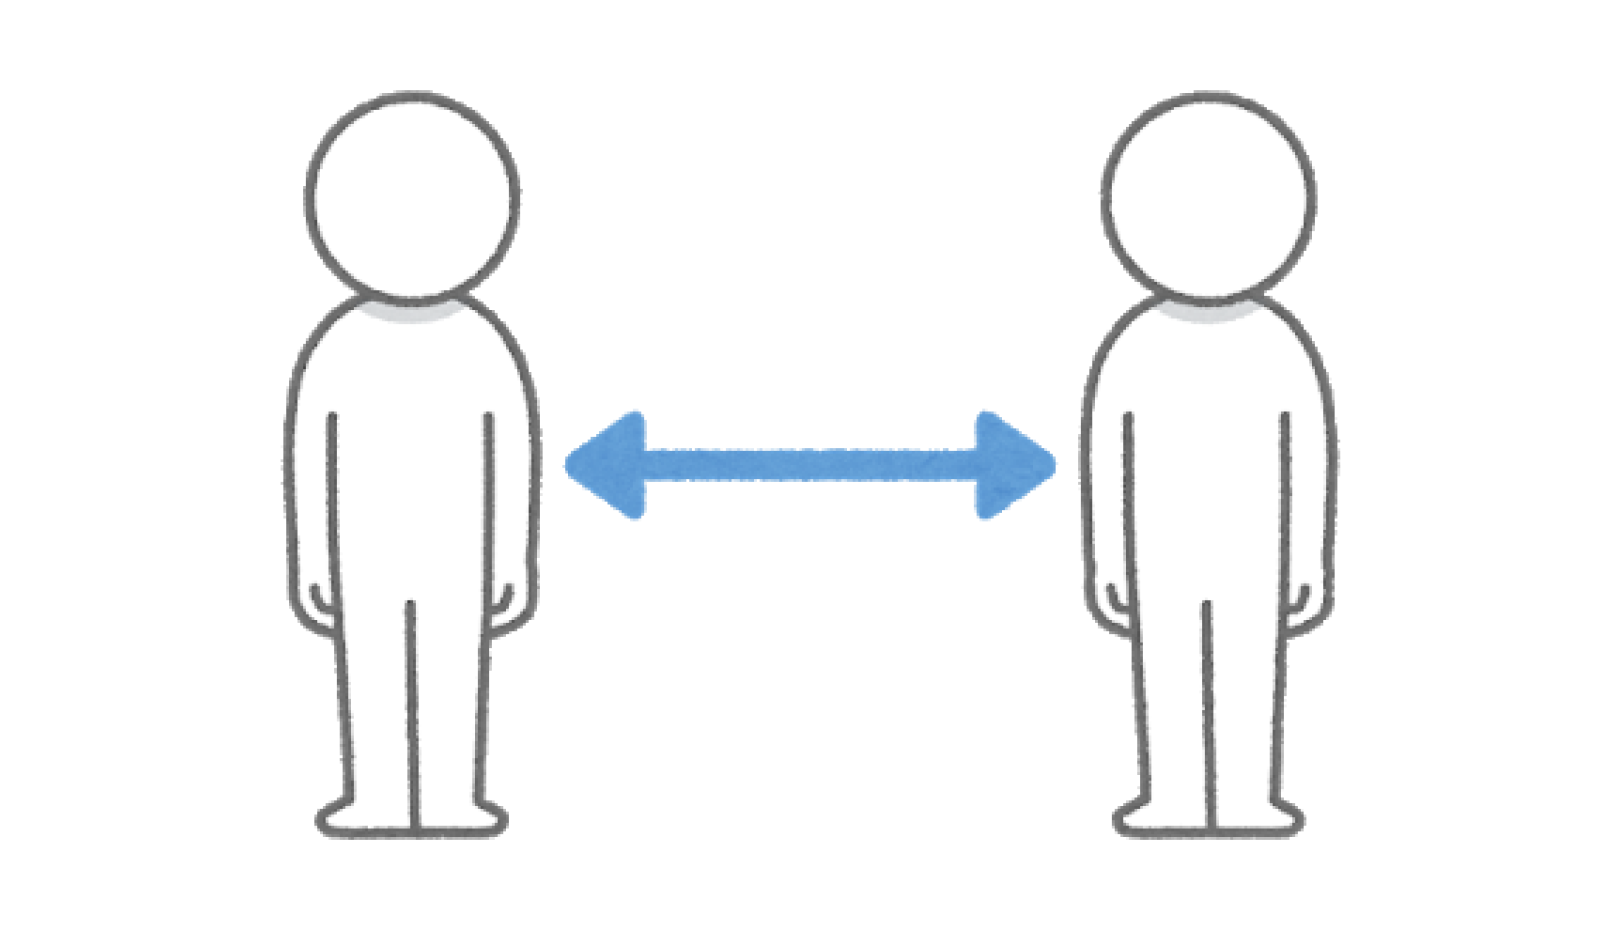
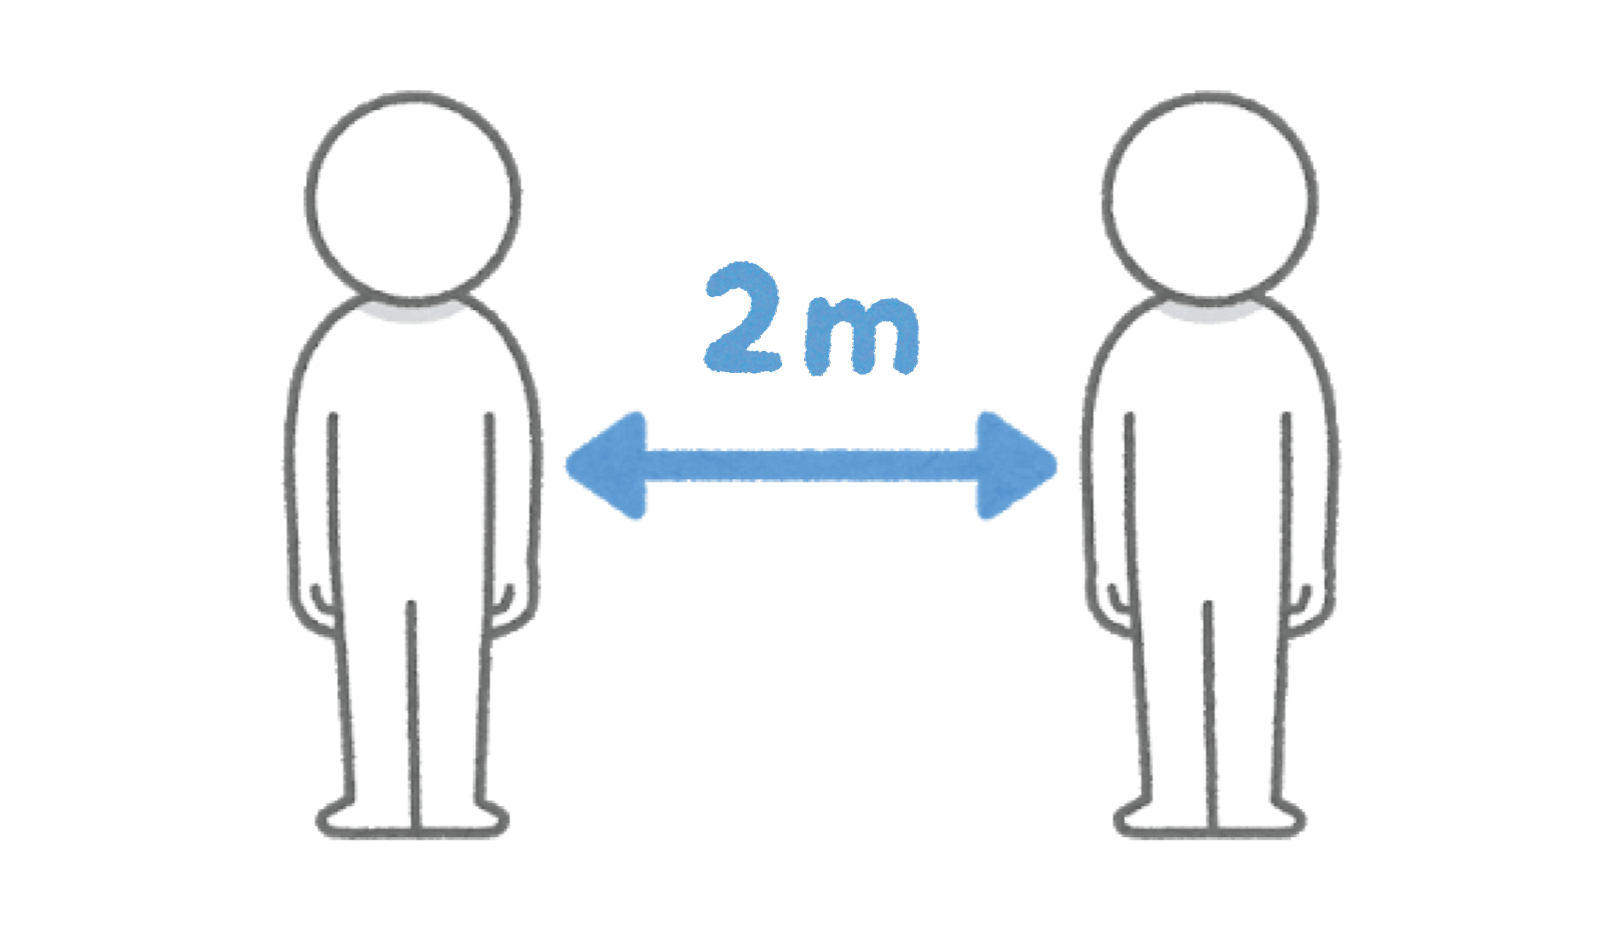
Fill in actual contents data

diff --git a/src/app/situation/tips-data.ts b/src/app/situation/tips-data.ts
@@ -8,7 +8,7 @@ export type situation = {
 export type tip = {
   imageSource: string,
   summary: string,
-  description: string
+  descriptionLines: string[]
 };
 
 export type reference = {
@@ -24,12 +24,34 @@ export const tipsData: situation[] = [
       {
         imageSource: '../../assets/tips-image/shopping-1.png',
         summary: '一度の買い物でまとめて買う',
-        description: 'Lorem ipsum dolor sit amet, consectetur adipisicing elit. A architecto asperiores aut cum fugiat id incidunt iure magnam maiores, neque nobis nostrum obcaecati, possimus quibusdam quis repudiandae sunt tenetur vel.'
+        descriptionLines: [
+          'スーパーや薬局へ買い物へ行く際は、一度に一週間分を目処にまとめて買いましょう。',
+          '買い物リストを作ってから出かけることで、店内で悩む時間を減らすことができます。',
+          '買い過ぎを防ぐことにも繋がり、適量な買い物をすることができます。'
+        ]
+      },
+      {
+        imageSource: '../../assets/tips-image/shopping-3.png',
+        summary: '他人とは2メートルの間隔を保つ',
+        descriptionLines: [
+          '店内は人が密集しがちな場所です。他人と最低でも1メートル、可能であれば2メートルの距離を空けましょう。'
+        ]
+      },
+      {
+        imageSource: '../../assets/tips-image/shopping-4.png',
+        summary: '電子マネーやおサイフケータイを活用する',
+        descriptionLines: [
+          'レジでは、現金よりもクレジットカードや電子マネー、おサイフケータイなどを使用した方が感染のリスクを下げることができます。',
+          '袋を開けるためのスポンジや濡れタオルにも極力触らないようにしましょう。'
+        ]
       },
       {
         imageSource: '../../assets/tips-image/shopping-2.png',
-        summary: '美味しいものをたくさん買う',
-        description: 'Lorem ipsum dolor sit amet, consectetur adipisicing elit. A architecto asperiores aut cum fugiat id incidunt iure magnam maiores, neque nobis nostrum obcaecati, possimus quibusdam quis repudiandae sunt tenetur vel.'
+        summary: '顔を触らない、マスクを付ける',
+        descriptionLines: [
+          '店内では、ドアや買い物カゴなど、他の人が触ったものに触れる機会が増えます。',
+          '最低限気をつけることとして、外出時は顔を触らないようにしましょう。'
+        ]
       }
     ],
     references: [
@@ -54,27 +76,40 @@ export const tipsData: situation[] = [
       {
         imageSource: '../../assets/tips-image/elderly-1.png',
         summary: 'こまめに連絡を取り合う',
-        description: 'Lorem ipsum dolor sit amet, consectetur adipisicing elit. A architecto asperiores aut cum fugiat id incidunt iure magnam maiores, neque nobis nostrum obcaecati, possimus quibusdam quis repudiandae sunt tenetur vel.'
+        descriptionLines: [
+          '同居でない場合「家族だから」といって安心して会うことはできません。',
+          'お互いの安全のために、電話で連絡をするなどし、直接会うことは控えましょう。'
+        ]
       },
       {
         imageSource: '../../assets/tips-image/elderly-2.png',
-        summary: '心配していることを伝える',
-        description: 'Lorem ipsum dolor sit amet, consectetur adipisicing elit. A architecto asperiores aut cum fugiat id incidunt iure magnam maiores, neque nobis nostrum obcaecati, possimus quibusdam quis repudiandae sunt tenetur vel.'
+        summary: '困った時は助けを呼ぶよう伝える',
+        descriptionLines: [
+          '妊婦の方や高齢の方は免疫力が低いです。まずは会わないことが一番ですが、やむを得ない場合もあるかもしれません。',
+          '無理な外出による感染のリスクを抑えるため、買い物や移動などで困ったときには助けを呼ぶよう伝えましょう。'
+        ]
       },
       {
         imageSource: '../../assets/tips-image/elderly-3.png',
-        summary: '美味しい卵焼きを食べる',
-        description: 'おばあちゃんの卵焼き美味しいんです。食べたい…。'
+        summary: '外で何かに触れたら、まず手洗いを',
+        descriptionLines: [
+          '手で触れたものが感染源となる場合もあります。',
+          'ウイルスを殺すためにも、手をこまめに洗うことを伝えましょう。'
+        ]
+      },
+      {
+        imageSource: '../../assets/tips-image/elderly-4.png',
+        summary: '他人とは2メートルの間隔を保つ',
+        descriptionLines: [
+          'くしゃみや咳により感染する場合もあります。いつ誰が咳をするか分かりません。',
+          '人混みを避け、他の人とは最低でも1メートル、可能であれば2メートル以上の距離を空けるよう伝えましょう。'
+        ]
       }
     ],
     references: [
       {
-        title: '買い物中の感染予防と栄養バランスを意識したお買い物術',
-        url: 'https://news.yahoo.co.jp/byline/naritatakanobu/20200412-00172915/'
-      },
-      {
-        title: '「他者との距離」どう取る？　２メートル前後を義務化、罰金も―各国・新型コロナ',
-        url: 'https://www.jiji.com/jc/article?k=2020041000680&g=int'
+        title: '新型コロナウイルス感染症への対応について（高齢者の皆さまへ）',
+        url: 'https://www.mhlw.go.jp/stf/seisakunitsuite/bunya/hukushi_kaigo/kaigo_koureisha/yobou/index_00013.html'
       },
       {
         title: 'Coronavirus disease (COVID-19) advice for the public',
@@ -88,32 +123,35 @@ export const tipsData: situation[] = [
     tips: [
       {
         imageSource: '../../assets/tips-image/stress-care-1.png',
-        summary: 'Coming soon...',
-        description: 'Lorem ipsum dolor sit amet, consectetur adipisicing elit. A architecto asperiores aut cum fugiat id incidunt iure magnam maiores, neque nobis nostrum obcaecati, possimus quibusdam quis repudiandae sunt tenetur vel.'
+        summary: '情報から目を離す',
+        descriptionLines: [
+          'テレビ番組では毎日のように新型コロナウイルスについて報道されています。',
+          'しかし、半日程度で状況が一変することは滅多にありません。',
+          '心の健康を守るためにも、新型コロナウイルスの情報をチェックする回数を一日二度程度に控えましょう。'
+        ]
       },
       {
         imageSource: '../../assets/tips-image/stress-care-2.png',
-        summary: 'Coming soon...',
-        description: 'Lorem ipsum dolor sit amet, consectetur adipisicing elit. A architecto asperiores aut cum fugiat id incidunt iure magnam maiores, neque nobis nostrum obcaecati, possimus quibusdam quis repudiandae sunt tenetur vel.'
+        summary: '連絡を取り合うこと、心のつながり',
+        descriptionLines: [
+          '家族に会えないからこそ、いつもより連絡を取り合い、助け合うことが心の健康につながります。',
+          '自分が孤独にならないため、家族を孤独にさせないためにも、電話で連絡を取り合いましょう。'
+        ]
       },
       {
         imageSource: '../../assets/tips-image/stress-care-3.png',
-        summary: 'Coming soon...',
-        description: 'Lorem ipsum dolor sit amet, consectetur adipisicing elit. A architecto asperiores aut cum fugiat id incidunt iure magnam maiores, neque nobis nostrum obcaecati, possimus quibusdam quis repudiandae sunt tenetur vel.'
+        summary: '適度な運動で気分転換をする',
+        descriptionLines: ['早朝は人混みを避けることができる時間帯です。一人、または同居している家族と一緒にウォーキングをするなど、身体を動かしましょう。']
       }
     ],
     references: [
       {
-        title: '買い物中の感染予防と栄養バランスを意識したお買い物術',
-        url: 'https://news.yahoo.co.jp/byline/naritatakanobu/20200412-00172915/'
+        title: '新型コロナウイルス感染症への対応について（高齢者の皆さまへ）',
+        url: 'https://www.mhlw.go.jp/stf/seisakunitsuite/bunya/hukushi_kaigo/kaigo_koureisha/yobou/index_00013.html'
       },
       {
-        title: '「他者との距離」どう取る？　２メートル前後を義務化、罰金も―各国・新型コロナ',
-        url: 'https://www.jiji.com/jc/article?k=2020041000680&g=int'
-      },
-      {
-        title: 'Coronavirus disease (COVID-19) advice for the public',
-        url: 'https://www.who.int/emergencies/diseases/novel-coronavirus-2019/advice-for-public'
+        title: 'Mental health and psychosocial considerations during the COVID-19 outbreak',
+        url: 'https://www.who.int/docs/default-source/coronaviruse/mental-health-considerations.pdf'
       }
     ]
   },
@@ -123,32 +161,37 @@ export const tipsData: situation[] = [
     tips: [
       {
         imageSource: '../../assets/tips-image/office-1.png',
-        summary: 'Coming soon...',
-        description: 'Lorem ipsum dolor sit amet, consectetur adipisicing elit. A architecto asperiores aut cum fugiat id incidunt iure magnam maiores, neque nobis nostrum obcaecati, possimus quibusdam quis repudiandae sunt tenetur vel.'
+        summary: '【仕事に行く前】体調チェック',
+        descriptionLines: [
+          '毎朝、自分の体調チェックをして、何か症状があれば会社に連絡をしましょう。',
+          '・37.5度の熱はありませんか？',
+          '・咳をしていませんか？'
+        ]
       },
       {
         imageSource: '../../assets/tips-image/office-2.png',
-        summary: 'Coming soon...',
-        description: 'Lorem ipsum dolor sit amet, consectetur adipisicing elit. A architecto asperiores aut cum fugiat id incidunt iure magnam maiores, neque nobis nostrum obcaecati, possimus quibusdam quis repudiandae sunt tenetur vel.'
+        summary: '【仕事中】気をつけること',
+        descriptionLines: [
+          'マスクをつけること以外にも、感染を防ぐためにできることがあります。',
+          '・部屋の換気をする。目安は1日3回、1回につき20〜30分',
+          '・他人との距離は2メートル以上開ける',
+          '・75%アルコールを使い、身の回りの機器の消毒する（会議室や公用車などの共用スペース、パソコンや固定電話など）',
+          '・トイレの後と食事の前は、特に念入りに手洗いする'
+        ]
       },
       {
         imageSource: '../../assets/tips-image/office-3.png',
-        summary: 'Coming soon...',
-        description: 'Lorem ipsum dolor sit amet, consectetur adipisicing elit. A architecto asperiores aut cum fugiat id incidunt iure magnam maiores, neque nobis nostrum obcaecati, possimus quibusdam quis repudiandae sunt tenetur vel.'
+        summary: '【仕事後】飲み会は控える',
+        descriptionLines: [
+          '飲み会など大人数の集まりは控えましょう。無症状でも陽性の可能性があります。',
+          '近い将来、必ずまたみんなで会える日が来ます。今は物理的距離を取りましょう。'
+        ]
       }
     ],
     references: [
       {
-        title: '買い物中の感染予防と栄養バランスを意識したお買い物術',
-        url: 'https://news.yahoo.co.jp/byline/naritatakanobu/20200412-00172915/'
-      },
-      {
-        title: '「他者との距離」どう取る？　２メートル前後を義務化、罰金も―各国・新型コロナ',
-        url: 'https://www.jiji.com/jc/article?k=2020041000680&g=int'
-      },
-      {
-        title: 'Coronavirus disease (COVID-19) advice for the public',
-        url: 'https://www.who.int/emergencies/diseases/novel-coronavirus-2019/advice-for-public'
+        title: 'みんなではじめよう　新型コロナウイルス予防',
+        url: 'http://www.iarmm.org/J/newsletters/Covid-19_recommendation.pdf'
       }
     ]
   },
@@ -158,28 +201,33 @@ export const tipsData: situation[] = [
     tips: [
       {
         imageSource: '../../assets/tips-image/transportation-1.png',
-        summary: 'Coming soon...',
-        description: 'Lorem ipsum dolor sit amet, consectetur adipisicing elit. A architecto asperiores aut cum fugiat id incidunt iure magnam maiores, neque nobis nostrum obcaecati, possimus quibusdam quis repudiandae sunt tenetur vel.'
+        summary: '他人とは2メートルの間隔を保つ',
+        descriptionLines: ['公共交通機関はなるべく利用しないでください。利用を必要とする場合は、飛沫感染を防ぐためにも他人と最低でも1メートル、可能であれば2メートルの距離を空けましょう。']
       },
       {
         imageSource: '../../assets/tips-image/transportation-2.png',
-        summary: 'Coming soon...',
-        description: 'Lorem ipsum dolor sit amet, consectetur adipisicing elit. A architecto asperiores aut cum fugiat id incidunt iure magnam maiores, neque nobis nostrum obcaecati, possimus quibusdam quis repudiandae sunt tenetur vel.'
+        summary: '車の乗り合わせを避ける',
+        descriptionLines: [
+          '自家用車内は密閉空間であり、密接場面でもあります。',
+          '三密（密閉・密集・密接）を避けるためにも、同居している家族以外と乗り合うことは控えましょう。'
+        ]
       },
       {
         imageSource: '../../assets/tips-image/transportation-3.png',
-        summary: 'Coming soon...',
-        description: 'Lorem ipsum dolor sit amet, consectetur adipisicing elit. A architecto asperiores aut cum fugiat id incidunt iure magnam maiores, neque nobis nostrum obcaecati, possimus quibusdam quis repudiandae sunt tenetur vel.'
+        summary: '車のカギ、ドア、ハンドルの消毒',
+        descriptionLines: [
+          '見落としがちですが、車のカギ、ドア、ハンドルは、携帯電話と同様によく触れるものです。こまめに消毒しましょう。'
+        ]
       }
     ],
     references: [
       {
-        title: '買い物中の感染予防と栄養バランスを意識したお買い物術',
-        url: 'https://news.yahoo.co.jp/byline/naritatakanobu/20200412-00172915/'
+        title: '新型コロナウイルス感染症への対応について（高齢者の皆さまへ）',
+        url: 'https://www.mhlw.go.jp/stf/seisakunitsuite/bunya/hukushi_kaigo/kaigo_koureisha/yobou/index_00013.html'
       },
       {
-        title: '「他者との距離」どう取る？　２メートル前後を義務化、罰金も―各国・新型コロナ',
-        url: 'https://www.jiji.com/jc/article?k=2020041000680&g=int'
+        title: 'みんなではじめよう　新型コロナウイルス予防',
+        url: 'http://www.iarmm.org/J/newsletters/Covid-19_recommendation.pdft'
       },
       {
         title: 'Coronavirus disease (COVID-19) advice for the public',
@@ -194,7 +242,10 @@ export const tipsData: situation[] = [
       {
         imageSource: '../../assets/tips-image/when-you-feel-sick.png',
         summary: '体調に異変を感じたら、まず連絡を',
-        description: '新型コロナウイルスに対応した地域の医療機関の連絡先は事前に調べ、見えるところに控えておきましょう。熱や咳、または呼吸が難しいと感じたら、まずは電話で相談しましょう。新型コロナウイルスの感染が「いつ」「どこで発生したのか」という情報は、地域を守る大事な情報となります。'
+        descriptionLines: [
+          '新型コロナウイルスに対応した地域の医療機関の連絡先は事前に調べ、見えるところに控えておきましょう。熱や咳、または呼吸が難しいと感じたら、まずは電話で相談しましょう。',
+          '新型コロナウイルスの感染が「いつ」「どこで発生したのか」という情報は、地域を守る大事な情報となります。'
+        ]
       },
     ],
     references: [

diff --git a/src/app/situation/situation.component.html b/src/app/situation/situation.component.html
@@ -5,7 +5,7 @@
     <span *ngIf="hasMultipleTips">{{ i + 1 }}. </span>
     {{ tip.summary }}
   </div>
-  <div>{{ tip.description }}</div>
+  <div *ngFor="let line of tip.descriptionLines">{{ line }}</div>
 </div>
 <div class="ref-section">
   <div class="ref-section-header">参考情報</div>

diff --git a/src/styles.scss b/src/styles.scss
@@ -97,6 +97,11 @@ img {
 
 .reference {
   margin-top: 20px;
+
+  a {
+    max-width: 100%;
+    word-break: break-all;
+  }
 }
 
 .contact {
